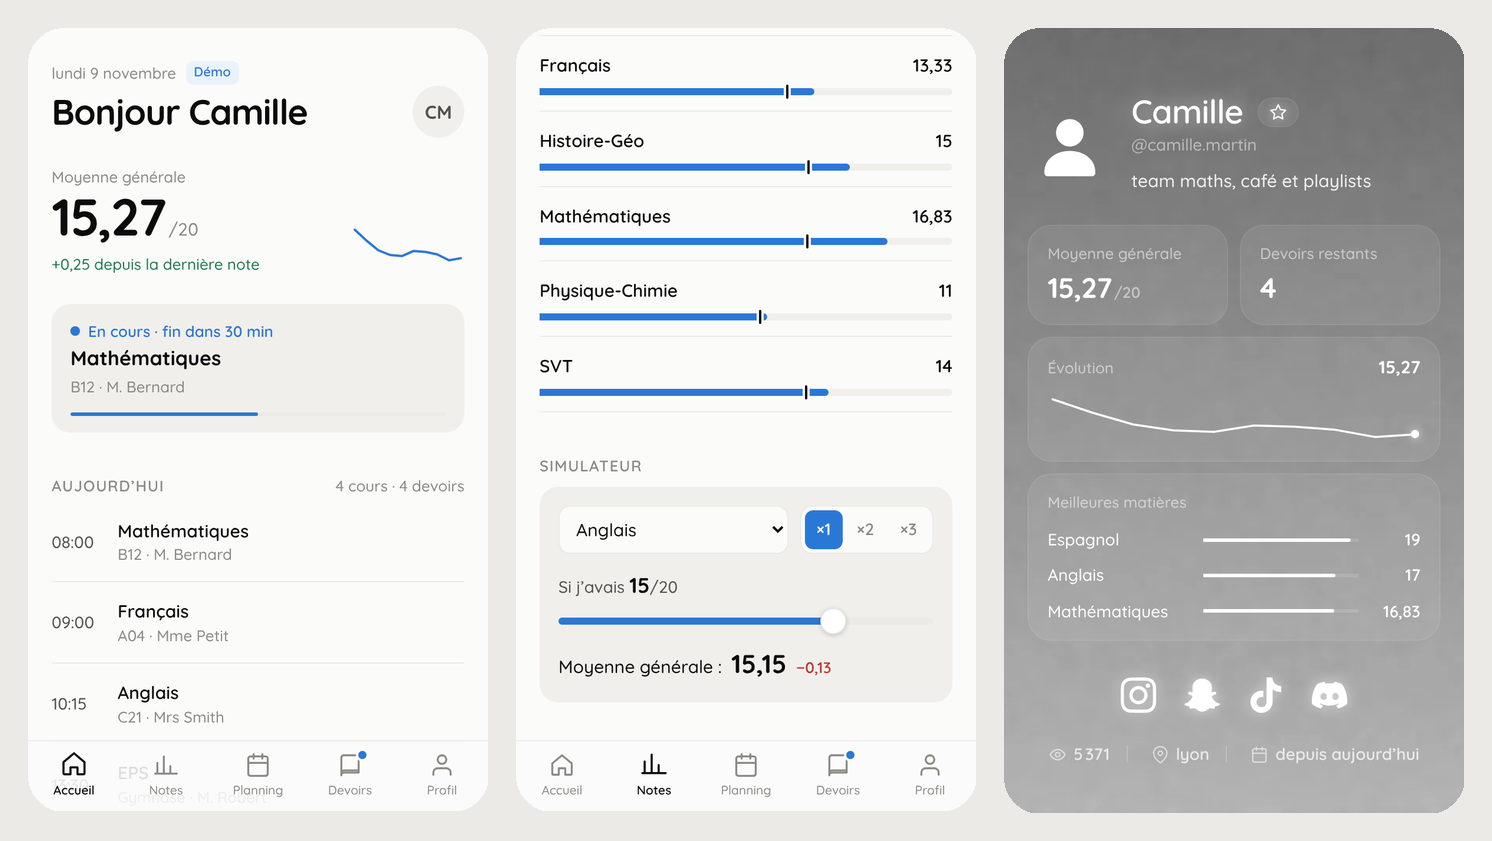
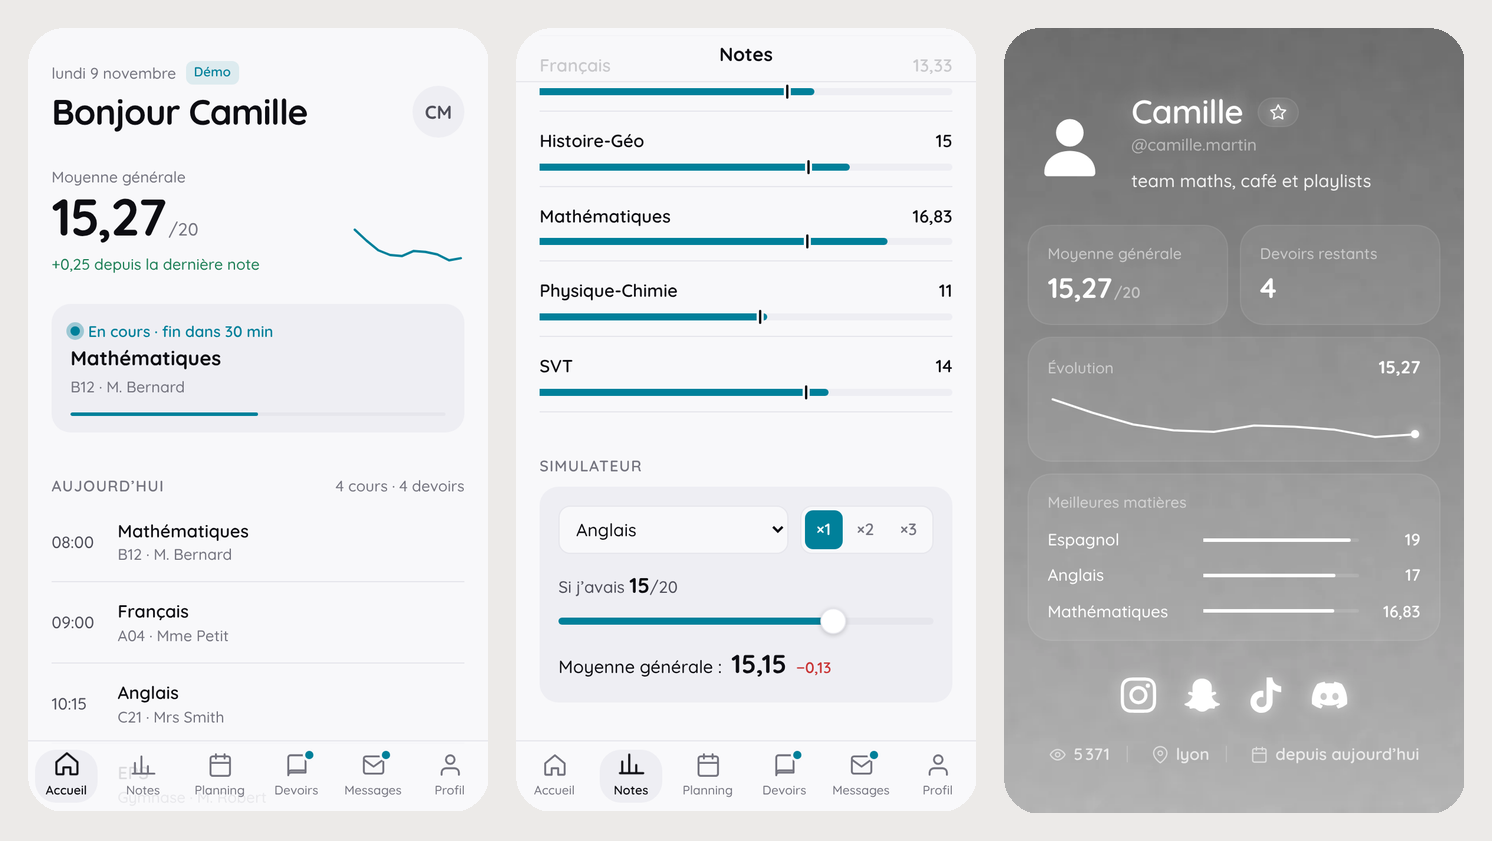
Couleur d'accent au choix, turquoise par défaut (fini l'indigo)
- Réglages : 6 couleurs d'accent (turquoise, bleu, vert, orange, rose,
  graphite), mémorisées sur l'appareil ; chacune a une version claire et une
  version sombre validées (contraste >= 3:1, texte des boutons lisible)
- Teinte douce dérivée de l'accent (color-mix) au lieu de couleurs figées
- Couleur de la barre du navigateur et confettis suivent l'accent
- Icône, manifest et aperçu du README en turquoise

Claude-Session: https://claude.ai/code/session_01ESSeQSamLuNFSuStRno4HM

diff --git a/src/styles.css b/src/styles.css
@@ -1,16 +1,18 @@
 /* ------------------------------------------------------------------
-   Design tokens — fond uni très légèrement bleuté, encre neutre, un seul accent indigo.
-   L'indigo est validé (contraste ≥ 3:1 sur le fond) en clair comme en sombre.
+   Design tokens — fond uni, encre neutre, un seul accent au choix (Réglages).
+   Chaque accent a une version claire et une version sombre, validées (contraste ≥ 3:1 sur le fond).
 ------------------------------------------------------------------- */
 :root {
+  --accent-l: #00809a;   /* turquoise (par défaut) */
+  --accent-d: #1ea3bd;
   --bg: #f8f8fa;
   --text: #0d0d12;
   --text-2: #4f4f5a;
   --muted: #74747f;
   --line: #e6e6ec;
   --fill: #eeeef3;
-  --accent: #5656d6;
-  --accent-soft: #ececfc;
+  --accent: var(--accent-l);
+  --accent-soft: color-mix(in srgb, var(--accent) 11%, var(--bg));
   --on-accent: #ffffff;
   --bad: #c93434;
   --good: #1c7f55;
@@ -18,6 +20,11 @@
   --nav-h: 60px;
   color-scheme: light;
 }
+:root[data-accent='bleu'] { --accent-l: #2a78d6; --accent-d: #4b95ee; }
+:root[data-accent='vert'] { --accent-l: #17894f; --accent-d: #22a56c; }
+:root[data-accent='orange'] { --accent-l: #c9501a; --accent-d: #e56a30; }
+:root[data-accent='rose'] { --accent-l: #d23f78; --accent-d: #e64a83; }
+:root[data-accent='graphite'] { --accent-l: #2c2c34; --accent-d: #e6e6ee; }
 
 @media (prefers-color-scheme: dark) {
   :root:not([data-theme='light']) {
@@ -27,8 +34,8 @@
     --muted: #8d8d9a;
     --line: #25252d;
     --fill: #1b1b22;
-    --accent: #8484ee;
-    --accent-soft: #23233f;
+    --accent: var(--accent-d);
+    --accent-soft: color-mix(in srgb, var(--accent) 16%, var(--bg));
     --on-accent: #0f0f13;
     --bad: #f07272;
     --good: #5fcf98;
@@ -42,8 +49,8 @@
   --muted: #8d8d9a;
   --line: #25252d;
   --fill: #1b1b22;
-  --accent: #8484ee;
-  --accent-soft: #23233f;
+  --accent: var(--accent-d);
+  --accent-soft: color-mix(in srgb, var(--accent) 16%, var(--bg));
   --on-accent: #0f0f13;
   --bad: #f07272;
   --good: #5fcf98;
@@ -678,3 +685,11 @@ small { display: block; font-size: 13px; color: var(--muted); }
 .msg-files li { display: flex; align-items: center; gap: 8px; padding: 9px 12px; border-radius: 10px; background: var(--fill); font-size: 14.5px; overflow-wrap: anywhere; }
 .nav-item { font-size: 10.5px; }
 .page > .notice { margin: 0 0 16px; }
+
+/* Choix de la couleur d'accent */
+.accents { display: grid; grid-template-columns: repeat(6, 1fr); gap: 6px; margin-top: 12px; }
+.accent-dot { display: grid; justify-items: center; gap: 6px; padding: 0; border: 0; background: none; font-size: 11.5px; color: var(--muted); }
+.accent-dot span { width: 100%; max-width: 44px; aspect-ratio: 1; border-radius: 50%; box-shadow: inset 0 0 0 1px rgb(127 127 127 / 0.25); transition: box-shadow 0.4s var(--spring), transform 0.4s var(--spring); }
+.accent-dot[aria-checked='true'] { color: var(--text); font-weight: 700; }
+.accent-dot[aria-checked='true'] span { transform: scale(1.06); box-shadow: 0 0 0 2px var(--bg), 0 0 0 4px var(--text); }
+.accent-dot:active span { transform: scale(0.9); }

diff --git a/src/App.tsx b/src/App.tsx
@@ -14,24 +14,34 @@ import { Login } from './pages/Login'
 import { MessageView, Messages } from './pages/Messages'
 import { Profil } from './pages/Profil'
 import { PublicProfile } from './pages/PublicProfile'
-import { Reglages, type Theme } from './pages/Reglages'
+import { Reglages, type Accent, type Theme } from './pages/Reglages'
 import { buildSnapshot, getMyProfile, saveProfile } from './profile/api'
 
 export default function App() {
   const [theme, setTheme] = useLocalStorage<Theme>('edo:theme', 'system')
+  const [accent, setAccent] = useLocalStorage<Accent>('edo:accent', 'turquoise')
   useEffect(() => {
     if (theme === 'system') delete document.documentElement.dataset.theme
     else document.documentElement.dataset.theme = theme
   }, [theme])
+  useEffect(() => {
+    const root = document.documentElement
+    if (accent === 'turquoise') delete root.dataset.accent
+    else root.dataset.accent = accent
+    // La barre du navigateur (téléphone) prend la couleur choisie.
+    const meta = document.querySelector('meta[name="theme-color"]')
+    const dark = theme === 'dark' || (theme === 'system' && matchMedia('(prefers-color-scheme: dark)').matches)
+    meta?.setAttribute('content', dark ? '#0f0f13' : getComputedStyle(root).getPropertyValue('--accent').trim() || '#00809a')
+  }, [accent, theme])
 
   return (
     <SessionProvider>
-      <Shell theme={theme} setTheme={setTheme} />
+      <Shell theme={theme} setTheme={setTheme} accent={accent} setAccent={setAccent} />
     </SessionProvider>
   )
 }
 
-function Shell({ theme, setTheme }: { theme: Theme; setTheme: (t: Theme) => void }) {
+function Shell({ theme, setTheme, accent, setAccent }: { theme: Theme; setTheme: (t: Theme) => void; accent: Accent; setAccent: (a: Accent) => void }) {
   const { status, data, error, mode, refresh } = useSession()
   const { route, param } = useHashRoute()
   const order = ['accueil', 'notes', 'planning', 'devoirs', 'messages', 'profil', 'reglages']
@@ -85,7 +95,7 @@ function Shell({ theme, setTheme }: { theme: Theme; setTheme: (t: Theme) => void
         {route === 'devoirs' && <Devoirs />}
         {route === 'messages' && (param ? <MessageView id={param} key={param} /> : <Messages />)}
         {route === 'profil' && <Profil />}
-        {route === 'reglages' && <Reglages theme={theme} setTheme={setTheme} />}
+        {route === 'reglages' && <Reglages theme={theme} setTheme={setTheme} accent={accent} setAccent={setAccent} />}
       </main>
       <BottomNav current={route} badges={{ devoirs: todo, messages: unread }} />
       <Toaster />

diff --git a/src/pages/Reglages.tsx b/src/pages/Reglages.tsx
@@ -5,8 +5,18 @@ import { Avatar, useMyProfile } from '../profile/useMyProfile'
 import { timeAgo } from '../lib'
 
 export type Theme = 'system' | 'light' | 'dark'
+export type Accent = 'turquoise' | 'bleu' | 'vert' | 'orange' | 'rose' | 'graphite'
 
-export function Reglages({ theme, setTheme }: { theme: Theme; setTheme: (t: Theme) => void }) {
+const ACCENTS: { id: Accent; label: string; color: string }[] = [
+  { id: 'turquoise', label: 'Turquoise', color: '#00809a' },
+  { id: 'bleu', label: 'Bleu', color: '#2a78d6' },
+  { id: 'vert', label: 'Vert', color: '#17894f' },
+  { id: 'orange', label: 'Orange', color: '#c9501a' },
+  { id: 'rose', label: 'Rose', color: '#d23f78' },
+  { id: 'graphite', label: 'Graphite', color: '#2c2c34' },
+]
+
+export function Reglages({ theme, setTheme, accent, setAccent }: { theme: Theme; setTheme: (t: Theme) => void; accent: Accent; setAccent: (a: Accent) => void }) {
   const { student } = useData()
   const { mode, refresh, refreshing, signOut, updatedAt } = useSession()
   const me = useMyProfile()
@@ -26,6 +36,16 @@ export function Reglages({ theme, setTheme }: { theme: Theme; setTheme: (t: Them
       <SectionTitle>Apparence</SectionTitle>
       <Segmented label="Thème" value={theme} onChange={setTheme}
         options={[['system', 'Auto'], ['light', 'Clair'], ['dark', 'Sombre']] as const} />
+
+      <SectionTitle>Couleur</SectionTitle>
+      <div className="accents" role="radiogroup" aria-label="Couleur d’accent">
+        {ACCENTS.map((a) => (
+          <button key={a.id} role="radio" aria-checked={accent === a.id} className="accent-dot" onClick={() => setAccent(a.id)}>
+            <span style={{ background: a.color }} />
+            {a.label}
+          </button>
+        ))}
+      </div>
 
       <SectionTitle>Compte</SectionTitle>
       <div className="list actions">

diff --git a/src/fx/index.tsx b/src/fx/index.tsx
@@ -97,7 +97,8 @@ export function Confetti() {
     const w = (c.width = innerWidth * dpr)
     const h = (c.height = innerHeight * dpr)
     const ctx = c.getContext('2d')!
-    const colors = ['#5656d6', '#1baf7a', '#eda100', '#e87ba4', '#8484ee', '#eb6834']
+    const accent = getComputedStyle(document.documentElement).getPropertyValue('--accent').trim() || '#00809a'
+    const colors = [accent, '#1baf7a', '#eda100', '#e87ba4', accent, '#eb6834']
     const parts = Array.from({ length: 140 }, () => ({
       x: w / 2 + (Math.random() - 0.5) * w * 0.2, y: h * 0.62,
       vx: (Math.random() - 0.5) * 22 * dpr, vy: -(10 + Math.random() * 16) * dpr,

diff --git a/index.html b/index.html
@@ -3,7 +3,7 @@
   <head>
     <meta charset="UTF-8" />
     <meta name="viewport" content="width=device-width, initial-scale=1, viewport-fit=cover" />
-    <meta name="theme-color" content="#5656d6" />
+    <meta name="theme-color" content="#00809a" />
     <meta name="description" content="EcoleDirecte Option — une interface moderne et mobile-first pour suivre notes, emploi du temps et devoirs." />
     <link rel="icon" type="image/svg+xml" href="/icon.svg" />
     <link rel="manifest" href="/manifest.webmanifest" />

diff --git a/README.md b/README.md
@@ -42,7 +42,7 @@ Notes en graphiques, emploi du temps, devoirs, et un profil public façon guns.l
 
 **Confort**
 
-- Thème clair, sombre ou automatique, pensé pour le téléphone (encoches, barre du bas, PWA)
+- Thème clair, sombre ou automatique, **6 couleurs d'accent au choix** (turquoise, bleu, vert, orange, rose, graphite), pensé pour le téléphone (encoches, barre du bas, PWA)
 - Animations façon Apple : ressorts physiques, pages qui glissent dans le sens de la navigation, barre du bas à bulle mobile, onglets qui glissent, titre qui se réduit au défilement, messages « Dynamic Island »
 - **Hors connexion** : l'app s'ouvre instantanément avec tes dernières données (gardées sur l'appareil) puis se met à jour ; tirer vers le bas pour actualiser
 - HTML sémantique, ARIA, focus visible, respect de « réduire les animations »
